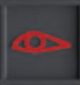
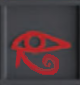
add game over logic when pharaoh dies add validation for piece not moving on opponents reserved cells trying to make eye of ra look cooler

Changed region(s): [[0.175, 0.5882, 0.75, 0.8941]]

diff --git a/core/src/com/github/mich8bsp/logic/Board.kt b/core/src/com/github/mich8bsp/logic/Board.kt
@@ -3,6 +3,12 @@ package com.github.mich8bsp.logic
 import kotlin.math.abs
 
 class Board(val rows: Int, val cols: Int, piecesConfiguration: Map<BoardPos, Piece>, playerColor: EPlayerColor){
+
+    private val pharaohHealth: MutableMap<EPlayerColor, Boolean> = mutableMapOf(
+            EPlayerColor.GREY to true,
+            EPlayerColor.RED to true
+    )
+
     private val cells: Array<Array<BoardCell>> = Array(rows) { i -> Array(cols) { j ->
        BoardCell.create(BoardPos.get(i, j), piecesConfiguration[BoardPos.get(i, j)], rows, cols, playerColor)
     } }
@@ -75,11 +81,32 @@ class Board(val rows: Int, val cols: Int, piecesConfiguration: Map<BoardPos, Pie
                 laserDirection = currCell.piece?.hitWithRay(laserDirection.reverse())
             }
             if(currCell.piece?.isDead() == true){
+                if(currCell.piece is PharaohPiece){
+                    pharaohHealth[currCell.piece!!.color] = false
+                }
                 currCell.piece = null
             }
             currCell = if(laserDirection!=null){
                 getNeighborCell(currCell, laserDirection)
             }else{
+                null
+            }
+        }
+    }
+
+    fun isPharaohDead(): Boolean {
+        return !pharaohHealth.values.fold(true) {  acc, curr  -> acc && curr }
+    }
+
+    fun getWinner(): EPlayerColor? {
+        return when {
+            pharaohHealth[EPlayerColor.GREY] == false -> {
+                EPlayerColor.RED
+            }
+            pharaohHealth[EPlayerColor.RED] == false -> {
+                EPlayerColor.GREY
+            }
+            else -> {
                 null
             }
         }

diff --git a/core/src/com/github/mich8bsp/logic/GameplayManager.kt b/core/src/com/github/mich8bsp/logic/GameplayManager.kt
@@ -2,6 +2,7 @@ package com.github.mich8bsp.logic
 
 class GameplayManager {
 
+    private var gameOver: Boolean = false
     private val playerColor: EPlayerColor = EPlayerColor.GREY
     private val piecesConfiguration: Map<BoardPos, Piece> = when (playerColor) {
         EPlayerColor.GREY -> EBoardConfigurations.CLASSIC_GREY.configuration
@@ -14,6 +15,9 @@ class GameplayManager {
     private var cellSelected: BoardCell? = null
 
     fun onCellSelected(cell: BoardCell) {
+        if(gameOver){
+            return
+        }
         cellSelected = when (cellSelected) {
             cell -> {
                 null
@@ -44,6 +48,9 @@ class GameplayManager {
     }
 
     fun onRotate(direction: ERotationDirection) {
+        if(gameOver){
+            return
+        }
         val isRotationAllowed = cellSelected!=null && cellSelected?.piece!=null && cellSelected?.piece?.color == playerColor
         if(isRotationAllowed){
             val move = RotationMove(cellSelected!!.pos, direction)
@@ -59,6 +66,11 @@ class GameplayManager {
     fun onMoveFinished() {
         cellSelected = null
         board.fireLaser(playerColor)
+        if(board.isPharaohDead()){
+            val winner = board.getWinner()
+            println("Game Over! $winner won!")
+            gameOver = true
+        }
     }
 
 }

diff --git a/core/src/com/github/mich8bsp/logic/MoveValidator.kt b/core/src/com/github/mich8bsp/logic/MoveValidator.kt
@@ -14,7 +14,8 @@ class MoveValidator(private val board: Board){
         val validRange = BoardPos.areNeighbors(move.from, move.to)
         val sourceNotSphinx = board.getCell(move.from)?.piece !is SphinxPiece
         val targetNotOccupied = board.getCell(move.to)?.isEmpty() ?: false
-        return validRange && targetNotOccupied && sourceNotSphinx
+        val targetNotOpponentsCell = board.getCell(move.to)?.cellColor != board.getCell(move.from)?.piece?.color?.other()
+        return validRange && targetNotOccupied && sourceNotSphinx && targetNotOpponentsCell
     }
 
 
@@ -25,7 +26,10 @@ class MoveValidator(private val board: Board){
 
         val switchingTwoPieces = cell1?.piece!=null && cell2?.piece!=null
         val notSwitchingWithSphinx = cell1?.piece !is SphinxPiece && cell2?.piece !is SphinxPiece
-        return validRange && switchingTwoPieces && notSwitchingWithSphinx
+        val notOnOpponentsCellAfterSwitch = cell1?.cellColor != cell2?.piece?.color?.other() &&
+                cell2?.cellColor != cell1?.piece?.color?.other()
+
+        return validRange && switchingTwoPieces && notSwitchingWithSphinx && notOnOpponentsCellAfterSwitch
     }
 
 
